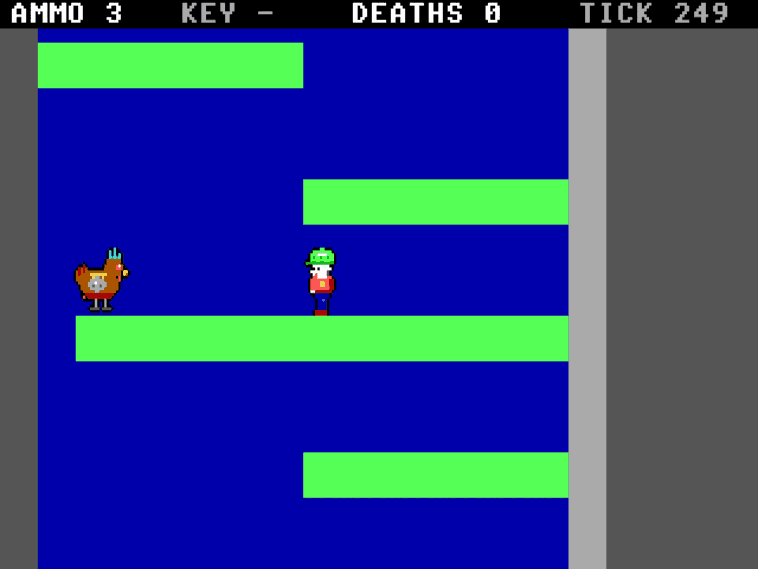
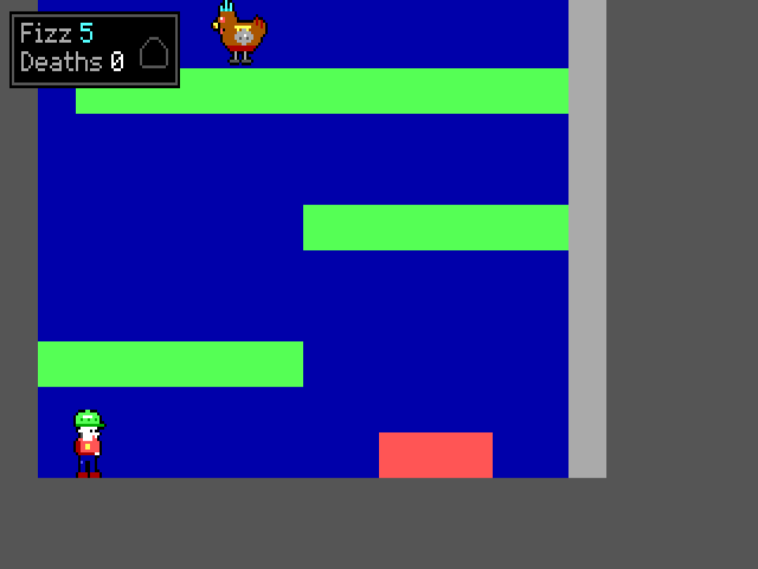
docs: describe the DOS HUD box and its cost
MANUAL says what the box shows (Fizz, Deaths, the key chip, no tick),
PLATFORM gains a DOS HUD section with the cached-strip design, the
before and after drawing cost and the re-pinned frame digests, SPRITES
notes that keyRed is also the key chip, and the manual's DOS figure is
replaced by a capture of the new HUD at the start of a run.

diff --git a/docs/PLATFORM.md b/docs/PLATFORM.md
@@ -10,6 +10,7 @@ Milestone 0 built the platform skeleton: a fixed 60 Hz loop that runs on Web and
 - [Ben against Fizz 1](#ben-against-fizz-1)
 - [The hardware abstraction layer](#the-hardware-abstraction-layer)
 - [The DOS runtime](#the-dos-runtime)
+- [The DOS HUD](#the-dos-hud)
 - [The Web build](#the-web-build)
 - [Running the checks](#running-the-checks)
 - [Toolchain](#toolchain)
@@ -29,9 +30,9 @@ Milestone 0 built the platform skeleton: a fixed 60 Hz loop that runs on Web and
 | `crates/fizz-sfx` | Platform data | Generated OPL2 and PC speaker data for the cluck, and the pure `place` function (where a sound is on screen to a level for each ear), the `OplPlayer` and `OplPair` (an OPL3 pair on channels 5 and 14) and `SpeakerPlayer` steppers the DOS audio service drives; see [`SFX.md`](SFX.md) |
 | `crates/fizz-music` | Platform data | Generated OPL2 and OPL3 register streams for the level music, lowered by `tools/music/generate.ts`; and `MusicPlayer`, the stepper that plays them; the DOS audio service runs it; see [`MUSIC.md`](MUSIC.md) |
 | `crates/fizz-machine` | Platform | The pure model of the DOS start-up check: probe data, sound settings and resolver, the OPL3 write router and the check screen's cells. See [`DOS-CHECK.md`](DOS-CHECK.md) |
-| `crates/fizz-view` | Presenter base | What both presenters share below the scene: the placement rule (a position in game units to a logical pixel, rounding down), the follow camera, clipped sprite, rectangle and tile drawing, the 8x8 capital font (the HUD's), Fizz 1's proportional mixed-case pixel font (`pfont`, for captions) and the generated sprite data. Neither presenter depends on the other |
+| `crates/fizz-view` | Presenter base | What both presenters share below the scene: the placement rule (a position in game units to a logical pixel, rounding down), the follow camera, clipped sprite, rectangle and tile drawing, the 8x8 capital font (the check and probe text and the exit banner), Fizz 1's proportional mixed-case pixel font (`pfont`, for captions and the DOS HUD) and the generated sprite data. Neither presenter depends on the other |
 | `crates/fizz-slice-view` | Presenter base | `draw_slice`, the one routine that draws the Episode 2 slice into a palette-indexed buffer; both presenters call it |
-| `crates/fizz-present-dos` | Presenter | The 320x200 indexed frame, palette, HUD (the slice's ammo, key, deaths and tick strip in `render_slice`, drawn with the font in `fizz-view`) and key mapping; no DOS calls |
+| `crates/fizz-present-dos` | Presenter | The 320x200 indexed frame, palette, HUD (`hud.rs`: the slice's Fizz, deaths and key chip in a box in the top-left corner, in Fizz 1's pixel font, cached as a strip and re-rendered only when one of the three values changes; see [The DOS HUD](#the-dos-hud)) and key mapping; no DOS calls |
 | `crates/fizz-present-web` | Presenter | The `wasm-bindgen` `App` (the slice, drawn with `fizz_slice_view::draw_slice`) and `WebClock` |
 | `dos/rt` | Platform | `fizz-dos-rt`, the self-contained DOS runtime and the only DOS-aware code |
 | `dos/fizz2` | App | `FIZZ2.EXE`, with the HAL adapters `DosClock`, `DosInput` and `DosDisplay` in `src/hal.rs` |
@@ -198,6 +199,16 @@ On the Web, `web/main.js` holds the same two tables keyed on `event.code` and fe
 
 In fullscreen (the `F` key or the page's button), the page calls the Keyboard Lock API, `navigator.keyboard.lock`, with the keys of both layouts, and releases it when fullscreen ends. Chromium supports it; where the API is missing or refuses, the page plays on without it. Esc is left out of the lock so the browser's way out of fullscreen keeps working.
 
+### The DOS HUD
+
+The slice's heads-up display is a box in the top-left corner of the 320 by 200 picture (`crates/fizz-present-dos/src/hud.rs`: 72 by 27 pixels at (4, 4), a fifth of the width and an eighth of the height). It follows the box Fizz 1's DOS port draws (`hud()` in its `shell.rs`): a black outer edge, a grey inner edge and rows of text in Fizz 1's proportional pixel font with a one-pixel black shadow. The port dims what is under the box with `ui::dim`, which needs a palette of shades; this presenter has the sixteen EGA colours, so the panel is solid black. There are three things to show. `Fizz` (Fizz 1's name for the ammunition) is light cyan, and light red when none is left. `Deaths` is white. The key chip, on the right, is Fizz 1's `keyRed` sprite while Ben carries the key and only that sprite's outline in dark grey while he does not. Numbers show at most 99. There is no score or lives line (the slice has neither) and no tick: `TICK` stays in `/BENCH` and the transcripts, and on the Web in the panel's text lines, which are not this box.
+
+The box is a cached strip. `Hud` keeps the rendered 72 by 27 pixels and the three values (ammo, key, deaths) they were rendered for; `Frame::draw_hud` renders again only when a value differs from the last call's, then copies the strip's 27 rows into the picture, which is redrawn from scratch every frame. A value that changes and changes back renders twice and leaves the picture as it was. The exit banner (`LEVEL CLEAR`) and the check and probe screens keep the 8x8 capital font.
+
+`/BENCH` at 26,800 cycles a millisecond, the whole script, drawing average (the maximum is the worst frame, which is a death or a shot): before, the strip of 8x8 text redrawn every frame, 2,802 us (maximum 3,568); after, 2,229 us (maximum 3,340). Leaving the box out altogether gives 2,196 us, so the box costs about 33 us a frame on average, almost all of it the copy of 1,944 bytes, against about 606 us for the old strip and its four texts. The step (108 us) and the copy to the screen (599 us) did not move.
+
+The frame digests (`BENCH FRAME`, eleven ticks) now cover the whole frame instead of the picture below a 10-row strip: the strip is gone, so the top rows are picture, and the box is part of what is proved. Every one of the eleven changed when this box replaced the bar, deliberately, and the DOS and host digests agree. The digests pinned in `fizz-slice-view` cover the picture alone and did not change, nor did the state hash `0edebb797e63edff` or any `EVENT` line.
+
 ## The Web build
 
 `fizz-present-web` exports one `wasm-bindgen` app, `App`, over the slice's world: it holds `fizz_ep2::level::world()`. `key(bits, down)` records a button change, `frame(now_ms)` runs the whole ticks that have elapsed and returns their count, and `reset()` starts the level again without touching the pacer. `render()` draws the world into a palette-indexed buffer, 208 pixels tall and 96 to 1280 wide as the page asks through `set_view(w, h)` (default 320 by 208; the DOS presenter keeps 320 by 200), with `fizz_slice_view::draw_slice`, the routine the DOS presenter also calls, and expands it to RGBA with the sixteen EGA colours; `rgba_ptr()`, `rgba_len()`, `width()` and `height()` let the page view that buffer in the module's memory (`new Uint8ClampedArray(memory.buffer, ptr, len)`, made again every frame because the memory can move) and `putImageData` it, so JavaScript draws nothing itself. `tick`, `hash_hex`, `ammo`, `has_key`, `deaths`, `door_open` and `exit_reached` feed the page's text HUD. `slice_replay_transcript()` returns the transcript `fizz_ep2::replay` writes, which the parity gate runs under Node or Bun. The page's script feeds `performance.now()` and key events in; rules never see the browser clock. Time beyond five ticks per displayed frame is dropped, so a hidden tab does not cause a burst on return. The first tick of each `frame` call takes the key latch's edges and later ticks in the same call see only the held buttons, so a press and release between two frames still reaches the rules once.
@@ -260,7 +271,7 @@ Only the DJGPP stub and CWSDPMI are used at run time; they are data, not a compi
 
 ### How `/BENCH` measures
 
-The run plays the slice script once from a fresh level (1,268 ticks), unpaced, and times three sections of every tick: the step (`fizz_ep2::step`), the drawing (`render_slice`: the picture from `draw_slice` into the 320 by 200 buffer plus the HUD text) and the copy of the buffer to video memory (`present`). It prints their average and largest cost in microseconds, a total, and the final state hash, which must equal the golden's (`BENCH HASH`), so a bench run also proves the world it timed was the slice. It also prints a `BENCH FRAME <tick> <digest>` line for each of eleven ticks: an FNV-1a digest of the 320 by 200 frame below the HUD strip, taken outside the timed sections, which `tools/check-dos.sh` compares with the digests the host computes from the same shared routines (`cargo run -p fizz-present-dos --example frames`), so a drawing routine that exists only in the DOS build is proved to draw the same pixels. It then prints `EXIT`, `FPU CW` and `VECTORS RESTORED` like the other modes. `FIZZ2.EXE /BENCH 120` times only the first 120 ticks (about a second at the settings below) for quick measurements while changing the drawing; a limited run ends on an earlier hash and is for timing only.
+The run plays the slice script once from a fresh level (1,268 ticks), unpaced, and times three sections of every tick: the step (`fizz_ep2::step`), the drawing (`render_slice`: the picture from `draw_slice` into the 320 by 200 buffer plus the HUD box) and the copy of the buffer to video memory (`present`). It prints their average and largest cost in microseconds, a total, and the final state hash, which must equal the golden's (`BENCH HASH`), so a bench run also proves the world it timed was the slice. It also prints a `BENCH FRAME <tick> <digest>` line for each of eleven ticks: an FNV-1a digest of the whole 320 by 200 frame, HUD box included, taken outside the timed sections, which `tools/check-dos.sh` compares with the digests the host computes from the same shared routines (`cargo run -p fizz-present-dos --example frames`), so a drawing routine that exists only in the DOS build is proved to draw the same pixels. It then prints `EXIT`, `FPU CW` and `VECTORS RESTORED` like the other modes. `FIZZ2.EXE /BENCH 120` times only the first 120 ticks (about a second at the settings below) for quick measurements while changing the drawing; a limited run ends on an earlier hash and is for timing only.
 
 A 486 has no `rdtsc`, so the stopwatch is PIT channel 0, which the 60 Hz interrupt already programs: `timer::clocks()` is the interrupt count times the divisor (19,886) plus how far the counter has counted down in the current period, read with the latch command. One count is 0.838 us (1,193,182 Hz). That is fine enough for sections of tens of microseconds or more, and each section is timed per tick rather than in a loop, so the maxima are real. A reading costs two port reads and a port write, about 5 counts (4 us) in DOSBox at 26,800 cycles; `/BENCH` measures that first (`reading cost` on the `BENCH TIMER` line) and subtracts it from each section. Two edge cases are handled: an interrupt between the counter read and the interrupt count (the pair is read again), and the counter having reloaded before IRQ 0 has run, which makes a reading one period low (the stopwatch adds a period when a reading goes backwards). The 60 Hz handler itself still runs during the bench and appears in the maxima. Interrupts, vectors and pacing are unchanged, and the vectors are restored on exit and on panic like the other modes.
 

diff --git a/docs/MANUAL.md b/docs/MANUAL.md
@@ -144,7 +144,7 @@ The run prints one more line when it ends, such as `AUDIO WRITES 425 SPEAKER STE
 
 ## The slice on DOS
 
-![The DOS build in DOSBox, a few seconds into the built-in run: Ben on a ledge of the shaft facing the chicken, with the HUD along the top.](img/dos-slice.png)
+![The DOS build in DOSBox, at the start of a run: Ben at the foot of the shaft and the chicken on the top ledge, with the HUD box in the top-left corner showing `Fizz 5`, `Deaths 0` and the key chip empty.](img/dos-slice.png)
 
 *Screenshot of the DOS build with the slice, `FIZZ2.EXE /REPLAY` in DOSBox Staging, at tick 249 of the built-in run. The emulator scales the 320 by 200 picture up.*
 
@@ -152,7 +152,7 @@ You are Ben, in a cut-down lighthouse of 32 tiles by 48. The screen follows you 
 
 When you play with `/LIVE`, the DOS version waits for the screen to finish drawing before it shows each new picture, which keeps the picture from tearing. Nothing else about how it plays changes.
 
-The strip along the top is the HUD. `AMMO` is how many Fizz shots you have left, `KEY` shows `RED` while you carry the red key, `DEATHS` counts how many times you have died, and `TICK` counts game steps, 60 a second.
+The small box in the top-left corner is the HUD, in Fizz 1's own letters. `Fizz` is how many Fizz shots you have left; the number turns light red when none are left. `Deaths` counts how many times you have died. The chip at the right of the box is the red key: an outline while the key is on the floor, the key itself while you carry it. The box is drawn only when one of those changes, so it costs next to nothing. The game steps are no longer counted on the screen; `/BENCH` and the transcripts still print them, and the Web page shows them in its panel.
 
 ### The level on DOS
 
@@ -178,7 +178,7 @@ Tiles are told apart by colour: dark blue is the wall behind the rooms, dark gre
 
 ### The red key and the door
 
-Walk onto the red key to pick it up; the `KEY` in the HUD turns red. Carry it to the red door and walk into it: the door opens and the key is used up. The door stays open for the rest of the run, even if you die afterwards. If you die while still carrying the key, it goes back to where it lay.
+Walk onto the red key to pick it up; the key chip in the HUD fills in. Carry it to the red door and walk into it: the door opens and the key is used up. The door stays open for the rest of the run, even if you die afterwards. If you die while still carrying the key, it goes back to where it lay.
 
 ### The chicken
 
@@ -262,7 +262,7 @@ A browser does not let a page make sound until you have pressed a key or clicked
 
 ## The screen
 
-Both versions draw the same level with the same camera that follows Ben as he moves through it; the DOS version in a fixed 320 by 200 window, the Web version in a window as wide as the browser's. The DOS version draws its strip of `AMMO`, `KEY`, `DEATHS` and `TICK` along the top of the picture and prints the final `TICK` and `HASH` when a run ends; the Web version shows them as lines of text in the panel (`H`).
+Both versions draw the same level with the same camera that follows Ben as he moves through it; the DOS version in a fixed 320 by 200 window, the Web version in a window as wide as the browser's. The DOS version draws a small box of `Fizz`, `Deaths` and the key chip in the top-left corner of the picture and prints the final `TICK` and `HASH` when a run ends; the Web version shows them as lines of text in the panel (`H`).
 
 - `TICK` counts game steps. There are 60 a second.
 - `HASH` is a 16-digit fingerprint of everything that has happened so far. Two copies that were given the same moves show the same fingerprint, on any platform.

diff --git a/docs/ARCHITECTURE.md b/docs/ARCHITECTURE.md
@@ -93,7 +93,7 @@ Crates arrive with their first consumer and test. Milestone 0 built the platform
 | `fizz-hal` | Platform | Hardware abstraction traits mirrored from Desk: clock and pacer, input, display, and the interrupt hand-off ring. Storage and audio traits join with their consumers | Exists (clock, input, display) |
 | `fizz-view` | Presenter base | Platform-neutral placement: turns the rules' positions into logical pixels that each presenter places in its own environment, the shared 8x8 bitmap font with clipped `draw_text` and, for captions, Fizz 1's proportional mixed-case font (`pfont`) (the 8x8 moved here from `fizz-present-dos` so the slice view can draw in-world captions; the DOS HUD draws through it too). The eased camera and the scene-to-screen step of Milestone 3 join it | Exists (the pixel rule, tile and y-flip helpers, the follow camera, clipped sprite, rectangle and tile drawing, generated sprite data) |
 | `fizz-slice-view` | Presenter base | The one scene-drawing routine for the Episode 2 slice: `draw_slice(frame, w, h, &World, tick)` paints sky, the tile window, the key, the door, the chicken, the shots and Ben into a palette-indexed buffer, with the follow camera. Both presenters call it, so Web and DOS draw the same pixels; the HUD text stays presenter-side. `no_std`, no `unsafe`, depends on `fizz-ep2` and `fizz-view`. It reads the world and never changes it, and its `tick` argument drives animation only. `draw_slice_with` takes `DrawOptions` (captions on or off, and the camera shake after Ben dies on or off) and draws the chicken's open beak and, as pixel text, its floating caption from the chicken's unhashed `cluck_age` and `cluck_variant`; `caption_view` gives the same caption as data (word, colours, age, feet position, the one-tile reach rule, with no clamping) for a presenter that draws it another way, as the Web page does, as DOM text | Exists |
-| `fizz-present-dos` | Presenter | DOS presentation: the indexed 320x200 frame, palette and key mapping, with no DOS calls; its HUD text uses the font in `fizz-view` | Exists |
+| `fizz-present-dos` | Presenter | DOS presentation: the indexed 320x200 frame, palette and key mapping, with no DOS calls; its HUD box uses Fizz 1's pixel font in `fizz-view` | Exists |
 | `fizz-present-web` | Presenter | Web presentation: a `wasm-bindgen` `App` that paces the slice's rules from browser time and renders them through `fizz-slice-view` into an RGBA frame the page copies to its canvas | Exists |
 | `fizz-machine` | Platform | The pure model of the DOS start-up check: the `Probe` of what a machine has, the sound `Settings` with the `FIZZ2.CFG` layout and command-line flags, `resolve` (choices and probe to a sound plan with three-state device rows), the OPL3 write router `route`, and `cells`, the 80 by 25 text screen with its golden file. `no_std`, no `unsafe`, no dependencies; it also prints and parses the `PROBE` lines and hashes a screen. See [`DOS-CHECK.md`](DOS-CHECK.md) | Exists (`FIZZ2.EXE /PROBE` uses the probe model; the screen is not drawn yet) |
 | `fizz-dos-rt` (`dos/rt`) | Platform | The DOS runtime: start-up, DPMI, heap, interrupts, the 60 Hz timer and its PIT stopwatch, keyboard, VGA, `memset` and `memcpy` on string instructions, a PIT delay, the machine probes, the text screen and clean-up. Lives in the separate `dos/` workspace | Exists |

diff --git a/WORKLOG.md b/WORKLOG.md
@@ -58,3 +58,4 @@ A working record for the project, not for players: one line per merged pull requ
 - Add `fizz_music::MusicPlayer`, the `no_std` stepper that plays the music register streams at 560 Hz: it writes the prelude once then loops at `loop_start` (counting loops), at most 16 writes a tick into a caller's slice, and `silence`, `pause`, `resume` and `reset` key off only the music channels from a copy of the last `0xB0+ch` and `0xBD` values, never touching channels 5 and 14 or `0x104` and `0x105`. `Fnv`, `writes_for` and `count_loops` reproduce the generator's hashes (OPL2 `0x4ae16486` over 2,961 writes, OPL3 `0xb31d1e26` over 5,035) and the tests cover two loops, silence after every tick, pause and resume, and the stepper against the generated binaries; `examples/stream.rs` prints the writes. Host-tested only: the DOS audio service that runs it is the next package, and nobody has listened to it; see `docs/MUSIC.md`.
 - Play the placeholder level music on DOS: the 560 Hz audio service builds a `MusicPlayer` from the resolved `MusicPlan` and steps it each tick before the effect (at most 16 writes, the same 6 and 35 status reads), `fizz_machine::route` now takes the stream kind so OPL3 music keeps its stereo bits while OPL2 music stays centred, `/LIVE` and `/REPLAY` print a `MUSIC SONG ... ARR ... TICKS ... WRITES ... LOOPS ... HASH ...` line beside the unchanged `AUDIO` line, the hidden `/MUSICTEST` and `/BENCH /AUDIO` switches, and check-dos compares the DOS writes and hash with the host for two loops of each arrangement (OPL2 5,838 writes `d4be55e3`, OPL3 9,892 writes `fc857de4`); `FIZZ2.EXE` is 150,528 bytes; DOSBox only, nobody has listened to it.
 - Add an in-picture HUD to the Web page in Fizz 1's look: a dark panel in the top left of `#stage` with `Fizz` (light cyan, red at zero), `Deaths` and a key chip (Fizz 1's `keyRed` sprite when carried, a dim outline when not) in Fizz 1's pixel font (`web/fonts`, OFL), scaled by the stage height as Fizz 1 does, written only when a value changes, `aria-hidden` with a quiet live region for the Fizz running out, the key and a death, and moving to the other corner if Ben comes near it. `web/hud.ts` has the pure rules and `bun test` cases, `App::ben_box` gives Ben's place in the view (view only; the hash `0edebb797e63edff` is unchanged), and `tools/check-web-hud.py` plays the golden replay at three window sizes. `TICK` and `HASH` stay in the H panel.
+- Move the DOS HUD from the 8x8 capitals bar (`AMMO`, `KEY`, `DEATHS`, `TICK`) to a small box in the top-left corner in Fizz 1's pixel font (`Fizz` turning light red at zero, `Deaths`, the key chip), cached and re-rendered only when a value changes; `TICK` leaves the live screen but stays in `/BENCH` and the transcripts. The drawing average at 26,800 cycles falls from 2,802 to 2,229 us, and the eleven `BENCH FRAME` digests now cover the whole frame and are re-pinned (host and DOS agree).

diff --git a/docs/SPRITES.md b/docs/SPRITES.md
@@ -55,7 +55,7 @@ A grid is integers and letters, so an editor shows it directly as a `w` by `h` a
 
 ## Sets in the repository
 
-- `fizz1-slice.json`: Fizz 1's 16-pixel-wide `ben_stand`, `ben_run1`, `ben_run2`, `ben_jump`, `ben_shoot`, `ben_aimUp`, `ben_aimDown`, `ben_lookUp` and `ben_lookDown` (all 16 by 24, the box of `ben_stand`), `ben_pogo` and `ben_pogo2` (16 by 32; `ben_pogo2` is the squash frame, drawn two rows lower), `keyRed` and `doorRed` (16 by 16) and `bubble` (8 by 8, the fizz bubble shot) and `stars0` and `stars1` (16 by 8, anchor `[8, 8]`: Fizz 1's two-frame stun stars, `stars(f)` in `episodes/episode-1/src/sprites/enemies.ts`, three yellow plus-shaped stars with white centres that shift 3 pixels a frame, exported from Fizz 1 pinned at `4bce036`) and `puff0`, `puff1`, `puff2` and `puff3` (Fizz 1's shot-end puff, baked: see below). Fizz 1 has no hurt or dead pose for Ben.
+- `fizz1-slice.json`: Fizz 1's 16-pixel-wide `ben_stand`, `ben_run1`, `ben_run2`, `ben_jump`, `ben_shoot`, `ben_aimUp`, `ben_aimDown`, `ben_lookUp` and `ben_lookDown` (all 16 by 24, the box of `ben_stand`), `ben_pogo` and `ben_pogo2` (16 by 32; `ben_pogo2` is the squash frame, drawn two rows lower), `keyRed` (which the DOS HUD also draws as its key chip, as is, or as its black outline pixels in dark grey when the key is not carried) and `doorRed` (16 by 16) and `bubble` (8 by 8, the fizz bubble shot) and `stars0` and `stars1` (16 by 8, anchor `[8, 8]`: Fizz 1's two-frame stun stars, `stars(f)` in `episodes/episode-1/src/sprites/enemies.ts`, three yellow plus-shaped stars with white centres that shift 3 pixels a frame, exported from Fizz 1 pinned at `4bce036`) and `puff0`, `puff1`, `puff2` and `puff3` (Fizz 1's shot-end puff, baked: see below). Fizz 1 has no hurt or dead pose for Ben.
 - `ep2-ben-a.json`: Ben variant A, 24 by 32 (`benA_pogoUp` and `benA_pogoDown` are 24 by 40): `benA_idle`, `benA_run1` to `benA_run4`, `benA_jump`, `benA_fall`, `benA_shoot`, `benA_hurt`, `benA_pogoUp`, `benA_pogoDown`. Provisional. It is drawn against Fizz 1's physics body, anchored at the feet and centre; the body does not change.
 - `ep2-cluckzarg.json`: `cluckzarg_idle`, `cluckzarg_walk`, `cluckzarg_alert`, 24 by 24. Provisional. In `idle` the legs are together; in `walk` the right leg is out to the right.
 - `ep2-cluckzarg-extra.json`: `cluckzarg_walk2` and `cluckzarg_beak`, `drawn` by hand. `cluckzarg_walk2` is 24 by 24: `walk` with the opposite stride (the left leg out to the left, the right leg planted), so the slice's cycle of `walk`, `idle`, `walk2`, `idle` steps with both legs. It lives in its own set because the imported `ep2-cluckzarg.json` stays as the canvas produced it. Provisional.
